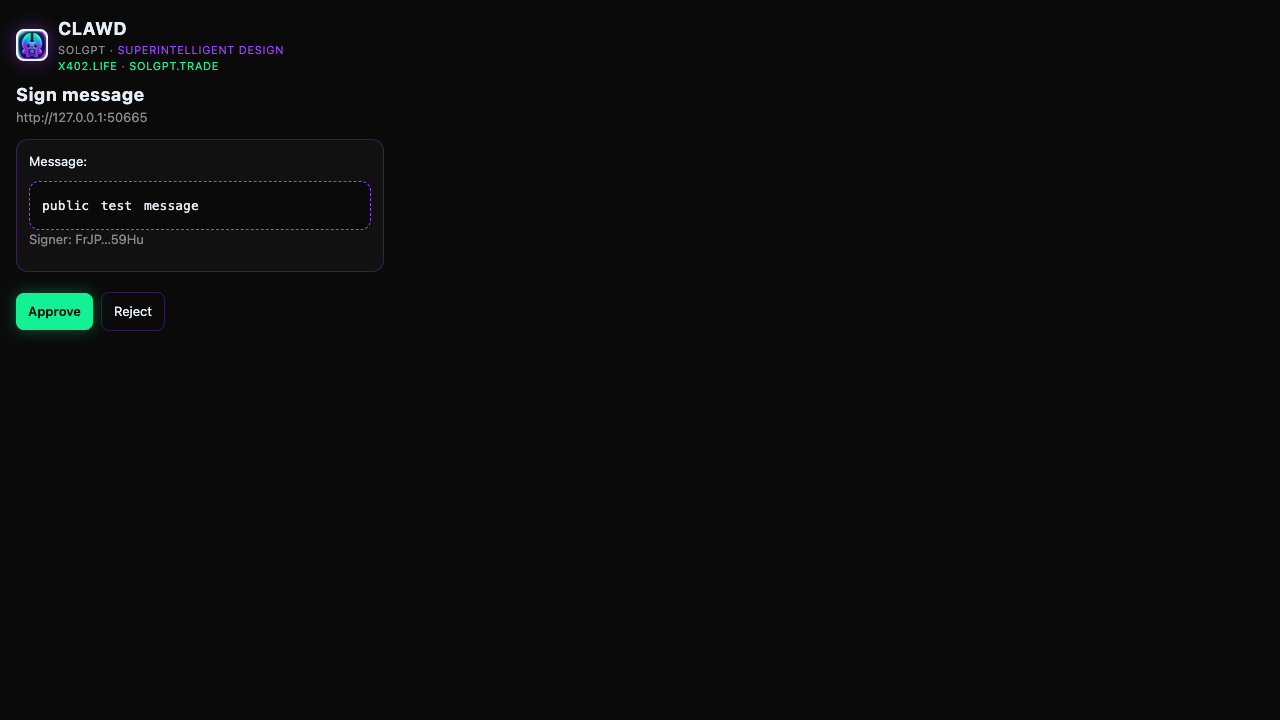
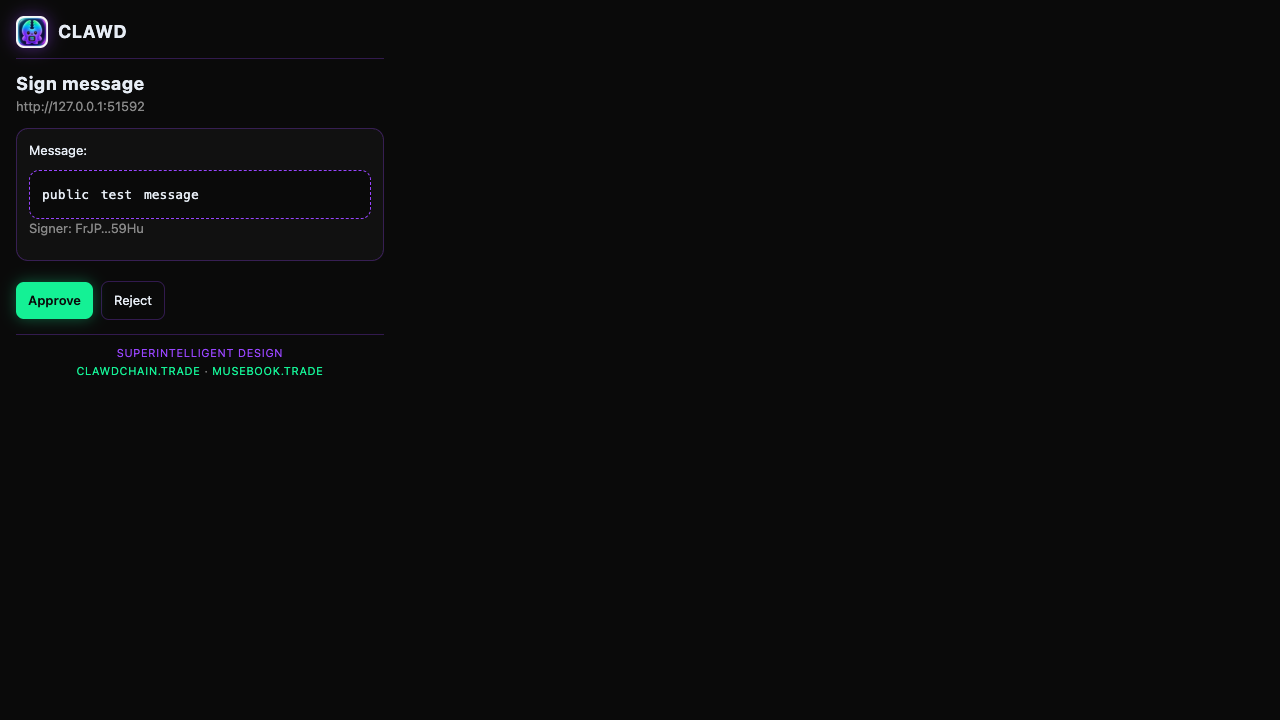
v0.5.1: rebuilt dist and refreshed browser-test verification artifacts

Changed region(s): [[0.0, 0.0, 0.25, 0.5194]]

diff --git a/dist/popup.js b/dist/popup.js
@@ -1,14 +1,14 @@
-const N="clawd",R="CLAWD has no monetary value. Clawd Chain is a public SVM test playground, not Solana mainnet.",p=document.getElementById("app"),D=new URLSearchParams(location.search),x=D.get("view")==="notification";function m(t,n){return new Promise((i,a)=>{chrome.runtime.sendMessage({type:"popup:request",id:crypto.randomUUID(),method:t,params:n},s=>{if(chrome.runtime.lastError)return a(new Error(chrome.runtime.lastError.message));if(s?.error)return a(new Error(s.error.message??"Request failed"));i(s?.result)})})}function e(t,n={},i=[]){const a=document.createElement(t);for(const[s,c]of Object.entries(n))c!==void 0&&(s==="class"?a.className=c:a.setAttribute(s,c));for(const s of i)a.append(s);return a}function A(t){return`${t.slice(0,4)}…${t.slice(-4)}`}function P(){p.textContent=""}function h(t){const n=e("div",{class:"error"},[t]);p.prepend(n),setTimeout(()=>n.remove(),4e3)}let S=!1;async function g(){const t=await m("popup_getState");if(!S){if(P(),x&&t.pendingActions.length>0)return T(t);switch(t.walletState){case"uninitialized":return I();case"locked":return B();case"unlocked":return t.pendingActions.length>0?T(t):q(t)}}}function I(){p.append(e("h1",{},["Helmsman"]),e("p",{class:"muted"},["Solana-native agentic wallet"]));const t=e("input",{type:"password",placeholder:"New password (min 8 chars)"}),n=e("input",{type:"password",placeholder:"Confirm password"}),i=e("button",{class:"primary"},["Create new wallet"]);i.addEventListener("click",async()=>{if(t.value!==n.value)return h("Passwords do not match");try{const{mnemonic:d}=await m("popup_createWallet",{password:t.value});M(d)}catch(d){h(d.message)}}),p.append(e("div",{class:"card"},[e("h2",{},["Create"]),t,n,i]));const a=e("textarea",{placeholder:"Recovery phrase (12 words)",rows:"3"}),s=e("input",{type:"password",placeholder:"Password (min 8 chars)"}),c=e("button",{},["Restore wallet"]);c.addEventListener("click",async()=>{try{await m("popup_restoreWallet",{mnemonic:a.value,password:s.value}),g()}catch(d){h(d.message)}}),p.append(e("div",{class:"card"},[e("h2",{},["Restore"]),a,s,c]))}function M(t){S=!0,P(),p.append(e("h1",{},["Back up your phrase"]),e("p",{class:"muted"},["Write these 12 words down. They are the only way to recover your wallet."]),e("div",{class:"mnemonic"},[t]));const n=e("button",{class:"primary"},["I saved it — continue"]);n.addEventListener("click",()=>{S=!1,g()}),p.append(n)}function B(){p.append(e("h1",{},["Unlock"]),e("p",{class:"muted"},["Enter your password"]));const t=e("input",{type:"password",placeholder:"Password"}),n=e("button",{class:"primary"},["Unlock"]),i=async()=>{try{await m("popup_unlockWallet",{password:t.value}),g()}catch(a){h(a.message)}};n.addEventListener("click",i),t.addEventListener("keydown",a=>a.key==="Enter"&&i()),p.append(e("div",{class:"card"},[t,n]))}async function q(t){const n=e("div",{class:"row spread"},[e("h1",{},["Helmsman"]),(()=>{const o=e("button",{class:"ghost"},["Lock"]);return o.addEventListener("click",async()=>{await m("popup_lockWallet"),g()}),o})()]);p.append(n);const i=e("select",{});for(const o of t.availableNetworks){const y=e("option",{value:o.cluster},[o.title]);o.cluster===t.selectedNetwork.cluster&&(y.selected=!0),i.append(y)}i.addEventListener("change",async()=>{await m("popup_changeNetwork",{cluster:i.value}),g()}),p.append(e("div",{class:"row spread"},[e("span",{class:"muted"},["Network"]),i])),p.append(e("div",{class:"banner"},["Connections, signing and transfers require your approval."]));const a=e("div",{class:"card"},[e("h2",{},["Accounts"])]);for(const o of t.accounts){const y=o===t.selectedAccount,$=e("div",{class:`acct ${y?"selected":""}`}),W=e("code",{title:o},[A(o)]),_=e("span",{class:"muted bal"},["…"]),U=t.selectedNetwork.cluster===N?"CLAWD":"SOL";m("popup_getBalance",{address:o}).then(C=>_.textContent=`${C.sol.toFixed(4)} ${U}`).catch(()=>_.textContent="—");const E=e("button",{class:"ghost sm"},["Copy"]);if(E.addEventListener("click",()=>navigator.clipboard.writeText(o)),$.append(W,_,E),!y){const C=e("button",{class:"ghost sm"},["Use"]);C.addEventListener("click",async()=>{await m("popup_selectAccount",{address:o}),g()}),$.append(C)}a.append($)}const s=e("button",{class:"ghost"},["+ Add account"]);s.addEventListener("click",async()=>{await m("popup_addAccount"),g()}),a.append(s),p.append(a),t.selectedNetwork.cluster===N&&p.append(G(t)),p.append(J());const c=e("input",{placeholder:"Recipient address"}),d=e("input",{type:"number",step:"0.0001",placeholder:"Amount (SOL)"}),r=e("button",{class:"primary"},["Send SOL"]);r.addEventListener("click",async()=>{try{const{signature:o}=await m("popup_sendSol",{to:c.value,sol:Number(d.value)});h(`Sent: ${A(o)}`)}catch(o){h(o.message)}}),p.append(e("div",{class:"card"},[e("h2",{},["Send"]),c,d,r])),t.authorizedOrigins.length&&p.append(z(t));const l=e("select",{"aria-label":"Auto-lock"},[5,15,30,60,240].map(o=>e("option",{value:String(o),...o===t.autoLockMinutes?{selected:"selected"}:{}},[`${o} min`])));l.addEventListener("change",async()=>{await m("popup_setAutoLock",{minutes:Number(l.value)}),h("Auto-lock updated")}),p.append(e("div",{class:"card"},[e("h2",{},["Auto-lock"]),e("p",{class:"muted"},["Lock after inactivity. Locking ends every auto-approve session."]),l]));const u=e("input",{type:"url",placeholder:"https://musebook.trade/wallet",value:t.helmsmanApiUrl}),v=e("button",{class:"ghost"},["Save API"]);v.addEventListener("click",async()=>{try{await m("popup_setHelmsmanApi",{apiUrl:u.value}),h("Helmsman API saved")}catch(o){h(o.message)}}),p.append(e("div",{class:"card"},[e("h2",{},["Helmsman API"]),e("p",{class:"muted"},["Control plane this extension talks to (the site you downloaded it from)."]),u,v]));const w=e("input",{type:"url",placeholder:"https://mainnet.helius-rpc.com/?api-key=…",value:t.customRpcUrl||""}),f=e("button",{class:"primary"},["Save & use Custom RPC"]);f.addEventListener("click",async()=>{try{await m("popup_setCustomRpc",{rpcUrl:w.value,select:!0}),h("Custom RPC saved — Network set to Custom RPC"),g()}catch(o){h(o.message)}}),p.append(e("div",{class:"card"},[e("h2",{},["Solana RPC"]),e("p",{class:"muted"},["Your own HTTPS JSON-RPC (Helius, QuickNode, Triton, self-hosted). Stored only in this extension."]),w,f]))}const H=["11111111111111111111111111111111","TokenkegQfeZyiNwAJbNbGKPFXCWuBvf9Ss623VQ5DA","TokenzQdBNbLqP5VEhdkAS6EPFLC1PHnBqCXEpPxuEb","ATokenGPvbdGVxr1b2hvZbsiqW5xWH25efTNsLJA8knL"],j=new Set(["sign_transaction","sign_b64","sign_and_send","sign_all"]),b=t=>`${(t/1e9).toLocaleString(void 0,{maximumFractionDigits:9})} SOL`;function k(t,n){return e("div",{class:"kv"},[e("span",{class:"muted"},[t]),e("span",{},[n])])}function F(t,n){const i=e("div",{class:"card","data-testid":"tx-preview"});n&&i.append(e("h2",{},[n]));for(const r of t.warnings)i.append(e("div",{class:`warn w-${r.level}`,"data-code":r.code},[r.message]));t.simulation.ok||i.append(e("p",{class:"muted"},["Could not simulate: estimated changes unavailable. Check the raw details below before approving."]));const a=e("div",{},[e("h2",{},["Estimated balance changes"])]);t.simulation.ok&&!t.balanceChanges.length&&a.append(e("p",{class:"muted"},["No balance changes for your accounts (besides the fee)."]));for(const r of t.balanceChanges){const l=r.uiDelta.startsWith("-");a.append(e("div",{class:"delta"},[e("span",{title:r.mint??"SOL"},[r.symbol]),e("span",{class:l?"neg":"pos"},[r.uiDelta])]))}t.simulation.ok&&i.append(a),i.append(k("Network fee",b(t.baseFeeLamports)),k("Priority fee",`${b(t.priorityFeeLamports)} (${t.computeUnitPriceMicroLamports} µL/CU × ${t.computeUnitLimit.toLocaleString()} CU)`),k("Total fee",b(t.feeLamports)),k("Max SOL leaving wallet",b(t.solOutflowLamports)),k("Version",String(t.version))),t.simulation.unitsConsumed&&i.append(k("Simulated compute",t.simulation.unitsConsumed.toLocaleString()+" CU"));const s=e("div",{},[e("h2",{},["Programs"])]);for(const r of t.programs)s.append(e("div",{class:"prog"},[e("span",{class:r.name?"":"unknown"},[r.name??"Unknown program"])," ",e("code",{title:r.id},[A(r.id)])]));i.append(s);const c=e("details",{},[e("summary",{},[`Writable accounts (${t.writable.length})`]),e("pre",{},[t.writable.join(`
-`)])]),d=e("details",{},[e("summary",{},[`Raw instructions (${t.instructions.length})`])]);return d.append(e("pre",{},[t.instructions.map(r=>`#${r.index+1} ${r.programName??"Unknown"} ${r.programId}
-`+(r.summary?`  ${r.summary}
-`:"")+r.accounts.map(l=>`  ${l.signer?"S":"-"}${l.writable?"W":"-"} ${l.address}`).join(`
+const O="clawd",B="CLAWD has no monetary value. Clawd Chain is a public SVM test playground, not Solana mainnet.",d=document.getElementById("app"),M=new URLSearchParams(location.search),N=M.get("view")==="notification";function m(t,n){return new Promise((o,a)=>{chrome.runtime.sendMessage({type:"popup:request",id:crypto.randomUUID(),method:t,params:n},s=>{if(chrome.runtime.lastError)return a(new Error(chrome.runtime.lastError.message));if(s?.error)return a(new Error(s.error.message??"Request failed"));o(s?.result)})})}function e(t,n={},o=[]){const a=document.createElement(t);for(const[s,c]of Object.entries(n))c!==void 0&&(s==="class"?a.className=c:a.setAttribute(s,c));for(const s of o)a.append(s);return a}function C(t){return`${t.slice(0,4)}…${t.slice(-4)}`}function U(){d.textContent=""}function v(t){const n=e("div",{class:"error"},[t]);d.prepend(n),setTimeout(()=>n.remove(),4e3)}let $=!1;async function h(){const t=await m("popup_getState");if(!$){if(U(),document.getElementById("hdr-actions")?.replaceChildren(),N&&t.pendingActions.length>0)return W(t);switch(t.walletState){case"uninitialized":return q();case"locked":return F();case"unlocked":return t.pendingActions.length>0?W(t):H(t)}}}function q(){d.append(e("h1",{},["Helmsman"]),e("p",{class:"muted"},["Solana-native agentic wallet"]));const t=e("input",{type:"password",placeholder:"New password (min 8 chars)"}),n=e("input",{type:"password",placeholder:"Confirm password"}),o=e("button",{class:"primary"},["Create new wallet"]);o.addEventListener("click",async()=>{if(t.value!==n.value)return v("Passwords do not match");try{const{mnemonic:l}=await m("popup_createWallet",{password:t.value});j(l)}catch(l){v(l.message)}}),d.append(e("div",{class:"card"},[e("h2",{},["Create"]),t,n,o]));const a=e("textarea",{placeholder:"Recovery phrase (12 words)",rows:"3"}),s=e("input",{type:"password",placeholder:"Password (min 8 chars)"}),c=e("button",{},["Restore wallet"]);c.addEventListener("click",async()=>{try{await m("popup_restoreWallet",{mnemonic:a.value,password:s.value}),h()}catch(l){v(l.message)}}),d.append(e("div",{class:"card"},[e("h2",{},["Restore"]),a,s,c]))}function j(t){$=!0,U(),d.append(e("h1",{},["Back up your phrase"]),e("p",{class:"muted"},["Write these 12 words down. They are the only way to recover your wallet."]),e("div",{class:"mnemonic"},[t]));const n=e("button",{class:"primary"},["I saved it — continue"]);n.addEventListener("click",()=>{$=!1,h()}),d.append(n)}function F(){d.append(e("h1",{},["Unlock"]),e("p",{class:"muted"},["Enter your password"]));const t=e("input",{type:"password",placeholder:"Password"}),n=e("button",{class:"primary"},["Unlock"]),o=async()=>{try{await m("popup_unlockWallet",{password:t.value}),h()}catch(a){v(a.message)}};n.addEventListener("click",o),t.addEventListener("keydown",a=>a.key==="Enter"&&o()),d.append(e("div",{class:"card"},[t,n]))}async function H(t){const n=document.getElementById("hdr-actions"),o=e("select",{"aria-label":"Network"});for(const g of t.availableNetworks){const A=e("option",{value:g.cluster},[g.title]);g.cluster===t.selectedNetwork.cluster&&(A.selected=!0),o.append(A)}o.addEventListener("change",async()=>{await m("popup_changeNetwork",{cluster:o.value}),h()});const a=e("button",{class:"ghost"},["Lock"]);a.addEventListener("click",async()=>{await m("popup_lockWallet"),h()});const s=t.selectedAccount??t.accounts[0]??"",c=e("span",{class:"acct",title:s},[s?`${s.slice(0,4)}…${s.slice(-4)}`:""]);n?n.replaceChildren(c,o,a):d.append(e("div",{class:"row spread"},[c,o,a])),d.append(e("div",{class:"banner"},["Connections, signing and transfers require your approval."]));const l=e("div",{class:"card"},[e("h2",{},["Accounts"])]);for(const g of t.accounts){const A=g===t.selectedAccount,x=e("div",{class:`acct ${A?"selected":""}`}),D=e("code",{title:g},[C(g)]),E=e("span",{class:"muted bal"},["…"]),I=t.selectedNetwork.cluster===O?"CLAWD":"SOL";m("popup_getBalance",{address:g}).then(_=>E.textContent=`${_.sol.toFixed(4)} ${I}`).catch(()=>E.textContent="—");const P=e("button",{class:"ghost sm"},["Copy"]);if(P.addEventListener("click",()=>navigator.clipboard.writeText(g)),x.append(D,E,P),!A){const _=e("button",{class:"ghost sm"},["Use"]);_.addEventListener("click",async()=>{await m("popup_selectAccount",{address:g}),h()}),x.append(_)}l.append(x)}const i=e("button",{class:"ghost"},["+ Add account"]);i.addEventListener("click",async()=>{await m("popup_addAccount"),h()}),l.append(i),d.append(l),t.selectedNetwork.cluster===O&&d.append(X(t)),d.append(Y());const r=e("input",{placeholder:"Recipient address"}),p=e("input",{type:"number",step:"0.0001",placeholder:"Amount (SOL)"}),w=e("button",{class:"primary"},["Send SOL"]);w.addEventListener("click",async()=>{try{const{signature:g}=await m("popup_sendSol",{to:r.value,sol:Number(p.value)});v(`Sent: ${C(g)}`)}catch(g){v(g.message)}}),d.append(e("div",{class:"card"},[e("h2",{},["Send"]),r,p,w])),t.authorizedOrigins.length&&d.append(J(t));const f=e("select",{"aria-label":"Auto-lock"},[5,15,30,60,240].map(g=>e("option",{value:String(g),...g===t.autoLockMinutes?{selected:"selected"}:{}},[`${g} min`])));f.addEventListener("change",async()=>{await m("popup_setAutoLock",{minutes:Number(f.value)}),v("Auto-lock updated")}),d.append(e("div",{class:"card"},[e("h2",{},["Auto-lock"]),e("p",{class:"muted"},["Lock after inactivity. Locking ends every auto-approve session."]),f]));const y=e("input",{type:"url",placeholder:"https://musebook.trade/wallet",value:t.helmsmanApiUrl}),u=e("button",{class:"ghost"},["Save API"]);u.addEventListener("click",async()=>{try{await m("popup_setHelmsmanApi",{apiUrl:y.value}),v("Helmsman API saved")}catch(g){v(g.message)}}),d.append(e("div",{class:"card"},[e("h2",{},["Helmsman API"]),e("p",{class:"muted"},["Control plane this extension talks to (the site you downloaded it from)."]),y,u]));const L=e("input",{type:"url",placeholder:"https://mainnet.helius-rpc.com/?api-key=…",value:t.customRpcUrl||""}),T=e("button",{class:"primary"},["Save & use Custom RPC"]);T.addEventListener("click",async()=>{try{await m("popup_setCustomRpc",{rpcUrl:L.value,select:!0}),v("Custom RPC saved — Network set to Custom RPC"),h()}catch(g){v(g.message)}}),d.append(e("div",{class:"card"},[e("h2",{},["Solana RPC"]),e("p",{class:"muted"},["Your own HTTPS JSON-RPC (Helius, QuickNode, Triton, self-hosted). Stored only in this extension."]),L,T]))}const z=["11111111111111111111111111111111","TokenkegQfeZyiNwAJbNbGKPFXCWuBvf9Ss623VQ5DA","TokenzQdBNbLqP5VEhdkAS6EPFLC1PHnBqCXEpPxuEb","ATokenGPvbdGVxr1b2hvZbsiqW5xWH25efTNsLJA8knL"],V=new Set(["sign_transaction","sign_b64","sign_and_send","sign_all"]),b=t=>`${(t/1e9).toLocaleString(void 0,{maximumFractionDigits:9})} SOL`;function k(t,n){return e("div",{class:"kv"},[e("span",{class:"muted"},[t]),e("span",{},[n])])}function G(t,n){const o=e("div",{class:"card","data-testid":"tx-preview"});n&&o.append(e("h2",{},[n]));for(const i of t.warnings)o.append(e("div",{class:`warn w-${i.level}`,"data-code":i.code},[i.message]));t.simulation.ok||o.append(e("p",{class:"muted"},["Could not simulate: estimated changes unavailable. Check the raw details below before approving."]));const a=e("div",{},[e("h2",{},["Estimated balance changes"])]);t.simulation.ok&&!t.balanceChanges.length&&a.append(e("p",{class:"muted"},["No balance changes for your accounts (besides the fee)."]));for(const i of t.balanceChanges){const r=i.uiDelta.startsWith("-");a.append(e("div",{class:"delta"},[e("span",{title:i.mint??"SOL"},[i.symbol]),e("span",{class:r?"neg":"pos"},[i.uiDelta])]))}t.simulation.ok&&o.append(a),o.append(k("Network fee",b(t.baseFeeLamports)),k("Priority fee",`${b(t.priorityFeeLamports)} (${t.computeUnitPriceMicroLamports} µL/CU × ${t.computeUnitLimit.toLocaleString()} CU)`),k("Total fee",b(t.feeLamports)),k("Max SOL leaving wallet",b(t.solOutflowLamports)),k("Version",String(t.version))),t.simulation.unitsConsumed&&o.append(k("Simulated compute",t.simulation.unitsConsumed.toLocaleString()+" CU"));const s=e("div",{},[e("h2",{},["Programs"])]);for(const i of t.programs)s.append(e("div",{class:"prog"},[e("span",{class:i.name?"":"unknown"},[i.name??"Unknown program"])," ",e("code",{title:i.id},[C(i.id)])]));o.append(s);const c=e("details",{},[e("summary",{},[`Writable accounts (${t.writable.length})`]),e("pre",{},[t.writable.join(`
+`)])]),l=e("details",{},[e("summary",{},[`Raw instructions (${t.instructions.length})`])]);return l.append(e("pre",{},[t.instructions.map(i=>`#${i.index+1} ${i.programName??"Unknown"} ${i.programId}
+`+(i.summary?`  ${i.summary}
+`:"")+i.accounts.map(r=>`  ${r.signer?"S":"-"}${r.writable?"W":"-"} ${r.address}`).join(`
 `)+`
-  data: ${r.dataHex||"(empty)"}`).join(`
+  data: ${i.dataHex||"(empty)"}`).join(`
 
-`)])),i.append(c,d),(t.simulation.logs?.length||t.simulation.error)&&i.append(e("details",{},[e("summary",{},["Simulation logs"]),e("pre",{},[[t.simulation.error??"",...t.simulation.logs??[]].filter(Boolean).join(`
-`)])])),i}function O(t,n,i){const a=e("div",{class:"autoform"}),s=e("select",{},[e("option",{value:String(15*6e4)},["15 minutes"]),e("option",{value:String(36e5)},["1 hour"]),e("option",{value:String(24*36e5)},["24 hours"]),e("option",{value:"custom"},["Custom (minutes)"])]),c=e("input",{type:"number",min:"1",max:"10080",placeholder:"minutes",style:"display:none"});s.addEventListener("change",()=>{c.style.display=s.value==="custom"?"":"none"});const d=e("input",{type:"number",min:"0",step:"0.01",value:"0.1","aria-label":"Max total SOL"}),r=e("input",{type:"number",min:"0",step:"0.01",value:"0.02","aria-label":"Max SOL per transaction"}),l=e("textarea",{rows:"3","aria-label":"Allowed program IDs"});if(l.value=t.join(`
-`),a.append(e("label",{},["Expires after",s,c]),e("label",{},["Max total SOL outflow",d]),e("label",{},["Max SOL per transaction",r]),e("label",{},["Allowed program IDs (one per line)",l]),e("p",{class:"muted"},["Transactions are still simulated. Anything with errors, authority/owner changes, closes to other owners, token approvals or delegations, other programs, or over the limits asks you as usual. Locking the wallet ends the session."])),i){const v=e("button",{class:"primary"},[i]);v.addEventListener("click",()=>n(u())),a.append(v)}function u(){return{durationMs:(s.value==="custom"?Number(c.value):Number(s.value)/6e4)*6e4,maxTotalSol:Number(d.value),maxPerTxSol:Number(r.value),allowedPrograms:l.value.split(/\s+/).filter(Boolean)}}return a.read=u,a}function T(t){document.body.classList.add("wide");const n=t.pendingActions[0],i={request_accounts:"Connection request",sign_transaction:"Approve transaction",sign_message:"Sign message",sign_and_send:"Approve & send transaction",sign_b64:"Approve transaction",sign_all:"Approve transactions",sign_in:"Sign in request",send_sol:"Approve SOL transfer"},a=t.pendingActions.length>1?` (1 of ${t.pendingActions.length})`:"";p.append(e("h1",{},[i[n.type]+a]),e("p",{class:"muted"},[n.origin])),n.autoApproveNote&&p.append(e("div",{class:"warn w-info"},[n.autoApproveNote]));const s=e("div",{class:"card"});let c=null,d=null;if(n.type==="request_accounts"){s.append(e("p",{},["This site wants to view your wallet accounts:"]));for(const u of t.accounts)s.append(e("code",{class:"block"},[u]))}else if(n.type==="sign_message")n.messageLooksLikeTransaction&&s.append(e("div",{class:"warn w-danger"},["These bytes look like a Solana transaction. Signing them could authorize a transaction. Only continue if you trust this site."])),s.append(e("p",{},[n.messageIsUtf8===!1?"Message (binary, shown as hex):":"Message:"]),e("div",{class:n.messageIsUtf8===!1?"mnemonic small":"mnemonic"},[n.message??""]),e("p",{class:"muted"},[`Signer: ${(n.signers??[]).map(A).join(", ")}`]));else if(n.type==="sign_in"){for(const u of n.signIn?.warnings??[])s.append(e("div",{class:"warn w-warn"},[u]));s.append(e("p",{},["This site asks you to sign in. Domain verified against the requesting page."]),e("div",{class:"mnemonic small",style:"white-space:pre-wrap;font-size:11px;max-height:200px"},[n.signIn?.text??""]))}else if(n.type==="send_sol")s.append(e("p",{},[`Send ${n.amountSol??0} SOL to:`]),e("code",{class:"block"},[n.to??""]));else{const u=n.type==="sign_all"?n.transactions?.length??0:1;s.append(e("p",{},[n.type==="sign_and_send"?"This site wants the wallet to sign and broadcast a transaction.":u>1?`This site wants the wallet to sign ${u} transactions (not broadcast).`:"This site wants the wallet to sign a transaction (not broadcast)."])),n.sendOptions&&Object.keys(n.sendOptions).length&&s.append(e("p",{class:"muted"},[`Send options: ${JSON.stringify(n.sendOptions)}`]))}if(p.append(s),j.has(n.type))if(!n.previews)p.append(e("div",{class:"card","data-testid":"simulating"},["Simulating transaction…"]));else{const u=n.previews.length;if(n.previews.forEach((w,f)=>p.append(F(w,u>1?`Transaction ${f+1} of ${u}`:void 0))),!n.previews.some(w=>w.blocking.length||!w.simulation.ok)){const w=[...new Set(n.previews.flatMap(f=>f.programs.map(o=>o.id)))].filter(f=>f!=="ComputeBudget111111111111111111111111111111");d=e("input",{type:"checkbox",id:"auto-toggle"}),c=O(w,()=>{}),c.style.display="none",d.addEventListener("change",()=>{c.style.display=d.checked?"":"none"}),p.append(e("div",{class:"card"},[e("label",{for:"auto-toggle",class:"row"},[d,`Auto-approve similar requests from ${n.origin}`]),c]))}}const r=e("button",{class:"primary"},["Approve"]);r.addEventListener("click",async()=>{try{await m("popup_approveAction",{id:n.id,autoApprove:d?.checked&&c?.read?c.read():void 0})}catch(v){return h(v.message)}const u=await m("popup_getState");x&&u.pendingActions.length===0?window.close():g()});const l=e("button",{class:"ghost"},["Reject"]);l.addEventListener("click",async()=>{await m("popup_declineAction",{id:n.id});const u=await m("popup_getState");x&&u.pendingActions.length===0?window.close():g()}),p.append(e("div",{class:"row"},[r,l]))}function z(t){const n=e("div",{class:"card"},[e("h2",{},["Connected sites"])]),i=new Map(t.autoApprove.map(a=>[a.origin,a]));for(const a of t.authorizedOrigins){const s=i.get(a),c=e("div",{class:"row spread"},[e("code",{},[a])]);s&&c.append(e("span",{class:"pill auto"},[`auto · ${Math.max(0,Math.round((s.expiresAt-Date.now())/6e4))}m`]));const d=e("button",{class:"ghost sm"},["Revoke"]);if(d.addEventListener("click",async()=>{await m("popup_deleteAuthorizedOrigin",{origin:a}),g()}),c.append(d),n.append(c),s){n.append(e("p",{class:"muted"},[`Auto-approve: ${b(s.spentLamports)} of ${b(s.maxTotalLamports)} used, ≤ ${b(s.maxPerTxLamports)}/tx, ${s.count} auto-approved, ${s.allowedPrograms.length} programs.`]));const l=e("button",{class:"ghost sm"},["Stop auto-approve"]);l.addEventListener("click",async()=>{await m("popup_revokeAutoApprove",{origin:a}),g()}),n.append(l)}else{const l=e("details",{},[e("summary",{},["Auto-approve…"])]);l.append(O(H,async u=>{try{await m("popup_setAutoApprove",{origin:a,...u}),g()}catch(v){h(v.message)}},"Enable auto-approve")),n.append(l)}const r=t.activity.filter(l=>l.origin===a).slice(0,8);if(r.length){const l=e("details",{},[e("summary",{},[`Activity (${r.length})`])]);for(const u of r)l.append(V(u));n.append(l)}}return n}function V(t){return e("div",{class:"activity"},[`${new Date(t.at).toLocaleTimeString()} · ${t.type} · ${t.result}`,t.auto?e("span",{class:"pill auto"},["auto"]):"",t.outflowLamports?` · ${b(t.outflowLamports)}`:"",t.signature?e("code",{title:t.signature},[" "+A(t.signature)]):""])}g().catch(t=>h(t.message));chrome.runtime.onMessage?.addListener(t=>{t?.type==="clawd:refresh"&&!S&&g(),t?.type==="solana:event"&&t.event==="stateChanged"&&!S&&g()});function G(t){const n=e("div",{class:"card"},[e("h2",{},["Clawd Chain"])]);n.append(e("div",{class:"banner"},[R]));const i=e("p",{class:"muted"},[""]);n.append(i);const a=e("div",{},["Balance: …"]),s=e("a",{target:"_blank",rel:"noopener"},[t.selectedAccount??""]),c=e("pre",{class:"muted"},[""]);n.append(a,e("code",{class:"block"},[s]),c);const d=()=>m("popup_clawdOverview").then(o=>{a.textContent=`Balance: ${o.clawd} CLAWD`,i.textContent=o.shieldReset,s.href=o.explorerUrl,s.textContent=o.address,c.textContent=o.holdings.length?o.holdings.map(y=>`${y.name||"Unnamed"} · ${y.balance}`).join(`
-`):"No tokens yet"}).catch(o=>a.textContent=`Balance: ${o.message}`);d();const r=e("div",{class:"muted"},[""]),l=e("button",{class:"primary"},["Get CLAWD (faucet)"]);l.addEventListener("click",async()=>{l.disabled=!0,r.textContent="Mining proof of work…";try{const o=await m("popup_clawdFaucet");r.textContent=o.amount!=null?`+${String(o.amount)} CLAWD`:"Airdrop sent",await d()}catch(o){r.textContent=o.message}finally{l.disabled=!1}}),n.append(e("p",{class:"muted"},["Faucet: proof of work solved in your browser, 5 CLAWD per wallet per day."]),l,r);const u=e("input",{placeholder:"Recipient address"}),v=e("input",{type:"number",step:"0.000000001",placeholder:"Amount (CLAWD)"}),w=e("button",{class:"ghost"},["Sign (offline, not broadcast)"]),f=e("code",{class:"block"},[""]);return w.addEventListener("click",async()=>{try{const o=await m("popup_clawdSign",{recipient:u.value,amount:v.value});f.textContent=`${o.sender} → ${o.recipient} · ${o.amount} CLAWD
-sig ${o.signature}`}catch(o){f.textContent=o.message}}),n.append(e("h2",{},["Sign transfer intent"]),u,v,w,f),n}const L=[];function J(){const t=e("pre",{class:"muted"},[""]),n=()=>t.textContent=L.map(s=>`${s.role==="user"?"You":"Clawd"}: ${s.content}`).join(`
+`)])),o.append(c,l),(t.simulation.logs?.length||t.simulation.error)&&o.append(e("details",{},[e("summary",{},["Simulation logs"]),e("pre",{},[[t.simulation.error??"",...t.simulation.logs??[]].filter(Boolean).join(`
+`)])])),o}function R(t,n,o){const a=e("div",{class:"autoform"}),s=e("select",{},[e("option",{value:String(15*6e4)},["15 minutes"]),e("option",{value:String(36e5)},["1 hour"]),e("option",{value:String(24*36e5)},["24 hours"]),e("option",{value:"custom"},["Custom (minutes)"])]),c=e("input",{type:"number",min:"1",max:"10080",placeholder:"minutes",style:"display:none"});s.addEventListener("change",()=>{c.style.display=s.value==="custom"?"":"none"});const l=e("input",{type:"number",min:"0",step:"0.01",value:"0.1","aria-label":"Max total SOL"}),i=e("input",{type:"number",min:"0",step:"0.01",value:"0.02","aria-label":"Max SOL per transaction"}),r=e("textarea",{rows:"3","aria-label":"Allowed program IDs"});if(r.value=t.join(`
+`),a.append(e("label",{},["Expires after",s,c]),e("label",{},["Max total SOL outflow",l]),e("label",{},["Max SOL per transaction",i]),e("label",{},["Allowed program IDs (one per line)",r]),e("p",{class:"muted"},["Transactions are still simulated. Anything with errors, authority/owner changes, closes to other owners, token approvals or delegations, other programs, or over the limits asks you as usual. Locking the wallet ends the session."])),o){const w=e("button",{class:"primary"},[o]);w.addEventListener("click",()=>n(p())),a.append(w)}function p(){return{durationMs:(s.value==="custom"?Number(c.value):Number(s.value)/6e4)*6e4,maxTotalSol:Number(l.value),maxPerTxSol:Number(i.value),allowedPrograms:r.value.split(/\s+/).filter(Boolean)}}return a.read=p,a}function W(t){document.body.classList.add("wide");const n=t.pendingActions[0],o={request_accounts:"Connection request",sign_transaction:"Approve transaction",sign_message:"Sign message",sign_and_send:"Approve & send transaction",sign_b64:"Approve transaction",sign_all:"Approve transactions",sign_in:"Sign in request",send_sol:"Approve SOL transfer"},a=t.pendingActions.length>1?` (1 of ${t.pendingActions.length})`:"";d.append(e("h1",{},[o[n.type]+a]),e("p",{class:"muted"},[n.origin])),n.autoApproveNote&&d.append(e("div",{class:"warn w-info"},[n.autoApproveNote]));const s=e("div",{class:"card"});let c=null,l=null;if(n.type==="request_accounts"){s.append(e("p",{},["This site wants to view your wallet accounts:"]));for(const p of t.accounts)s.append(e("code",{class:"block"},[p]))}else if(n.type==="sign_message")n.messageLooksLikeTransaction&&s.append(e("div",{class:"warn w-danger"},["These bytes look like a Solana transaction. Signing them could authorize a transaction. Only continue if you trust this site."])),s.append(e("p",{},[n.messageIsUtf8===!1?"Message (binary, shown as hex):":"Message:"]),e("div",{class:n.messageIsUtf8===!1?"mnemonic small":"mnemonic"},[n.message??""]),e("p",{class:"muted"},[`Signer: ${(n.signers??[]).map(C).join(", ")}`]));else if(n.type==="sign_in"){for(const p of n.signIn?.warnings??[])s.append(e("div",{class:"warn w-warn"},[p]));s.append(e("p",{},["This site asks you to sign in. Domain verified against the requesting page."]),e("div",{class:"mnemonic small",style:"white-space:pre-wrap;font-size:11px;max-height:200px"},[n.signIn?.text??""]))}else if(n.type==="send_sol")s.append(e("p",{},[`Send ${n.amountSol??0} SOL to:`]),e("code",{class:"block"},[n.to??""]));else{const p=n.type==="sign_all"?n.transactions?.length??0:1;s.append(e("p",{},[n.type==="sign_and_send"?"This site wants the wallet to sign and broadcast a transaction.":p>1?`This site wants the wallet to sign ${p} transactions (not broadcast).`:"This site wants the wallet to sign a transaction (not broadcast)."])),n.sendOptions&&Object.keys(n.sendOptions).length&&s.append(e("p",{class:"muted"},[`Send options: ${JSON.stringify(n.sendOptions)}`]))}if(d.append(s),V.has(n.type))if(!n.previews)d.append(e("div",{class:"card","data-testid":"simulating"},["Simulating transaction…"]));else{const p=n.previews.length;if(n.previews.forEach((f,y)=>d.append(G(f,p>1?`Transaction ${y+1} of ${p}`:void 0))),!n.previews.some(f=>f.blocking.length||!f.simulation.ok)){const f=[...new Set(n.previews.flatMap(y=>y.programs.map(u=>u.id)))].filter(y=>y!=="ComputeBudget111111111111111111111111111111");l=e("input",{type:"checkbox",id:"auto-toggle"}),c=R(f,()=>{}),c.style.display="none",l.addEventListener("change",()=>{c.style.display=l.checked?"":"none"}),d.append(e("div",{class:"card"},[e("label",{for:"auto-toggle",class:"row"},[l,`Auto-approve similar requests from ${n.origin}`]),c]))}}const i=e("button",{class:"primary"},["Approve"]);i.addEventListener("click",async()=>{try{await m("popup_approveAction",{id:n.id,autoApprove:l?.checked&&c?.read?c.read():void 0})}catch(w){return v(w.message)}const p=await m("popup_getState");N&&p.pendingActions.length===0?window.close():h()});const r=e("button",{class:"ghost"},["Reject"]);r.addEventListener("click",async()=>{await m("popup_declineAction",{id:n.id});const p=await m("popup_getState");N&&p.pendingActions.length===0?window.close():h()}),d.append(e("div",{class:"row"},[i,r]))}function J(t){const n=e("div",{class:"card"},[e("h2",{},["Connected sites"])]),o=new Map(t.autoApprove.map(a=>[a.origin,a]));for(const a of t.authorizedOrigins){const s=o.get(a),c=e("div",{class:"row spread"},[e("code",{},[a])]);s&&c.append(e("span",{class:"pill auto"},[`auto · ${Math.max(0,Math.round((s.expiresAt-Date.now())/6e4))}m`]));const l=e("button",{class:"ghost sm"},["Revoke"]);if(l.addEventListener("click",async()=>{await m("popup_deleteAuthorizedOrigin",{origin:a}),h()}),c.append(l),n.append(c),s){n.append(e("p",{class:"muted"},[`Auto-approve: ${b(s.spentLamports)} of ${b(s.maxTotalLamports)} used, ≤ ${b(s.maxPerTxLamports)}/tx, ${s.count} auto-approved, ${s.allowedPrograms.length} programs.`]));const r=e("button",{class:"ghost sm"},["Stop auto-approve"]);r.addEventListener("click",async()=>{await m("popup_revokeAutoApprove",{origin:a}),h()}),n.append(r)}else{const r=e("details",{},[e("summary",{},["Auto-approve…"])]);r.append(R(z,async p=>{try{await m("popup_setAutoApprove",{origin:a,...p}),h()}catch(w){v(w.message)}},"Enable auto-approve")),n.append(r)}const i=t.activity.filter(r=>r.origin===a).slice(0,8);if(i.length){const r=e("details",{},[e("summary",{},[`Activity (${i.length})`])]);for(const p of i)r.append(Q(p));n.append(r)}}return n}function Q(t){return e("div",{class:"activity"},[`${new Date(t.at).toLocaleTimeString()} · ${t.type} · ${t.result}`,t.auto?e("span",{class:"pill auto"},["auto"]):"",t.outflowLamports?` · ${b(t.outflowLamports)}`:"",t.signature?e("code",{title:t.signature},[" "+C(t.signature)]):""])}h().catch(t=>v(t.message));chrome.runtime.onMessage?.addListener(t=>{t?.type==="clawd:refresh"&&!$&&h(),t?.type==="solana:event"&&t.event==="stateChanged"&&!$&&h()});function X(t){const n=e("div",{class:"card"},[e("h2",{},["Clawd Chain"])]);n.append(e("div",{class:"banner"},[B]));const o=e("p",{class:"muted"},[""]);n.append(o);const a=e("div",{},["Balance: …"]),s=e("a",{target:"_blank",rel:"noopener"},[t.selectedAccount??""]),c=e("pre",{class:"muted"},[""]);n.append(a,e("code",{class:"block"},[s]),c);const l=()=>m("popup_clawdOverview").then(u=>{a.textContent=`Balance: ${u.clawd} CLAWD`,o.textContent=u.shieldReset,s.href=u.explorerUrl,s.textContent=u.address,c.textContent=u.holdings.length?u.holdings.map(L=>`${L.name||"Unnamed"} · ${L.balance}`).join(`
+`):"No tokens yet"}).catch(u=>a.textContent=`Balance: ${u.message}`);l();const i=e("div",{class:"muted"},[""]),r=e("button",{class:"primary"},["Get CLAWD (faucet)"]);r.addEventListener("click",async()=>{r.disabled=!0,i.textContent="Mining proof of work…";try{const u=await m("popup_clawdFaucet");i.textContent=u.amount!=null?`+${String(u.amount)} CLAWD`:"Airdrop sent",await l()}catch(u){i.textContent=u.message}finally{r.disabled=!1}}),n.append(e("p",{class:"muted"},["Faucet: proof of work solved in your browser, 5 CLAWD per wallet per day."]),r,i);const p=e("input",{placeholder:"Recipient address"}),w=e("input",{type:"number",step:"0.000000001",placeholder:"Amount (CLAWD)"}),f=e("button",{class:"ghost"},["Sign (offline, not broadcast)"]),y=e("code",{class:"block"},[""]);return f.addEventListener("click",async()=>{try{const u=await m("popup_clawdSign",{recipient:p.value,amount:w.value});y.textContent=`${u.sender} → ${u.recipient} · ${u.amount} CLAWD
+sig ${u.signature}`}catch(u){y.textContent=u.message}}),n.append(e("h2",{},["Sign transfer intent"]),p,w,f,y),n}const S=[];function Y(){const t=e("pre",{class:"muted"},[""]),n=()=>t.textContent=S.map(s=>`${s.role==="user"?"You":"Clawd"}: ${s.content}`).join(`
 
-`);n();const i=e("input",{placeholder:"Ask Clawd…"}),a=e("button",{class:"ghost"},["Ask"]);return a.addEventListener("click",async()=>{const s=i.value.trim();if(s){L.push({role:"user",content:s}),i.value="",a.disabled=!0,n();try{const{reply:c}=await m("popup_aiChat",{messages:L});L.push({role:"assistant",content:c})}catch(c){L.pop(),h(c.message)}finally{a.disabled=!1,n()}}}),e("div",{class:"card"},[e("h2",{},["Assistant"]),e("p",{class:"muted"},["AI help. Never share your recovery phrase. It cannot sign or send anything."]),t,i,a])}
+`);n();const o=e("input",{placeholder:"Ask Clawd…"}),a=e("button",{class:"ghost"},["Ask"]);return a.addEventListener("click",async()=>{const s=o.value.trim();if(s){S.push({role:"user",content:s}),o.value="",a.disabled=!0,n();try{const{reply:c}=await m("popup_aiChat",{messages:S});S.push({role:"assistant",content:c})}catch(c){S.pop(),v(c.message)}finally{a.disabled=!1,n()}}}),e("div",{class:"card"},[e("h2",{},["Assistant"]),e("p",{class:"muted"},["AI help. Never share your recovery phrase. It cannot sign or send anything."]),t,o,a])}

diff --git a/dist/popup.html b/dist/popup.html
@@ -36,8 +36,13 @@
         filter: drop-shadow(0 0 8px rgba(153, 69, 255, 0.45));
       }
       h1 { font-size: 18px; margin: 0; letter-spacing: 0.04em; }
-      .sub { font-size: 11px; color: var(--muted); letter-spacing: 0.06em; text-transform: uppercase; }
-      .sub a { color: var(--accent); text-decoration: none; }
+      .brand { padding-bottom: 10px; border-bottom: 1px solid var(--line); margin-bottom: 12px; }
+      .hdr-actions { margin-left: auto; display: flex; align-items: center; gap: 6px; }
+      .hdr-actions select { width: auto; margin: 0; padding: 4px 6px; font-size: 11px; }
+      .hdr-actions .acct { white-space: nowrap; font-size: 11px; color: var(--muted); font-family: ui-monospace, monospace; }
+      .foot { margin-top: 14px; padding-top: 10px; border-top: 1px solid var(--line); text-align: center; font-size: 11px; color: var(--muted); letter-spacing: 0.06em; text-transform: uppercase; }
+      .foot-brand { color: #9945ff; margin-bottom: 2px; }
+      .foot a { color: var(--accent); text-decoration: none; }
       h2 { font-size: 12px; text-transform: uppercase; letter-spacing: 0.08em; color: var(--muted); margin: 0 0 8px; }
       p { margin: 0 0 10px; }
       .muted { color: var(--muted); }
@@ -142,14 +147,16 @@
     </style>
   </head>
   <body>
-    <div class="brand">
+    <header class="brand">
       <img src="icons/icon-48.png" alt="Clawd" />
-      <div>
-        <h1>CLAWD</h1>
-        <div class="sub">SolGPT · <span style="color:#9945ff">Superintelligent Design</span><br /><a href="https://x402.life" target="_blank">x402.life</a> · <a href="https://solgpt.trade" target="_blank">solgpt.trade</a></div>
-      </div>
-    </div>
+      <h1>CLAWD</h1>
+      <div id="hdr-actions" class="hdr-actions"></div>
+    </header>
     <div id="app"></div>
+    <footer class="foot">
+      <div class="foot-brand">Superintelligent Design</div>
+      <div><a href="https://clawdchain.trade/" target="_blank" rel="noopener noreferrer">clawdchain.trade</a> · <a href="https://musebook.trade/" target="_blank" rel="noopener noreferrer">musebook.trade</a></div>
+    </footer>
     <script type="module" src="popup.js"></script>
   </body>
 </html>
